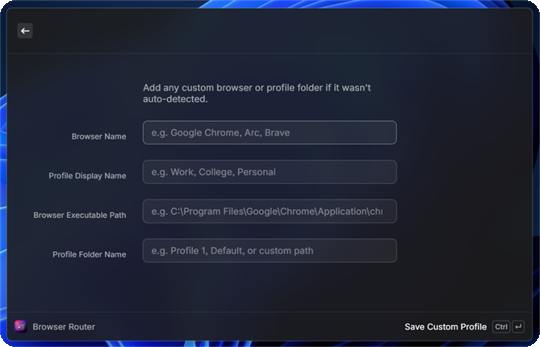
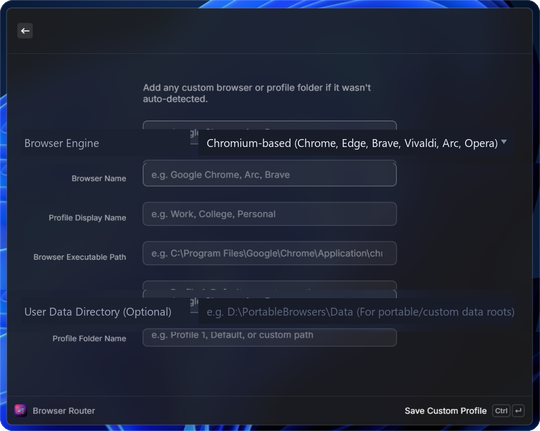
fix(review): address review feedback - update custom profile screenshots to 6 fields, remove unreferenced raw screenshots, and fix privacy shortcut

diff --git a/PRIVACY.md b/PRIVACY.md
@@ -11,7 +11,7 @@ Browser Router is engineered with an absolute **privacy-first architecture**. We
 - **Zero Telemetry**: Browser Router collects **no** telemetry, usage metrics, analytics, or behavioral data.
 - **100% Local Execution**: All profile detection, registry inspection, query routing, and browser launching occur entirely on your local Windows machine.
 - **No Access to Sensitive Data**: Browser Router **never** reads or accesses your browsing history, saved passwords, authentication cookies, form autofill, or personal downloads.
-- **Optional Opt-In Feedback**: The only time network traffic is generated is when you explicitly submit a feedback or bug report through the in-app form (<kbd>Ctrl</kbd> + <kbd>F</kbd>).
+- **Optional Opt-In Feedback**: The only time network traffic is generated is when you explicitly submit a feedback or bug report through the in-app form (<kbd>Ctrl</kbd> + <kbd>Shift</kbd> + <kbd>F</kbd>).
 
 ---
 
@@ -85,4 +85,4 @@ Browser Router is completely open source under the permissive [MIT License](LICE
 
 If you have questions, feedback, or security inquiries:
 - **GitHub Issues**: Open an issue or discussion on the official GitHub repository.
-- **In-App Feedback**: Use the built-in feedback tool (<kbd>Ctrl</kbd> + <kbd>F</kbd>).
+- **In-App Feedback**: Use the built-in feedback tool (<kbd>Ctrl</kbd> + <kbd>Shift</kbd> + <kbd>F</kbd>).
